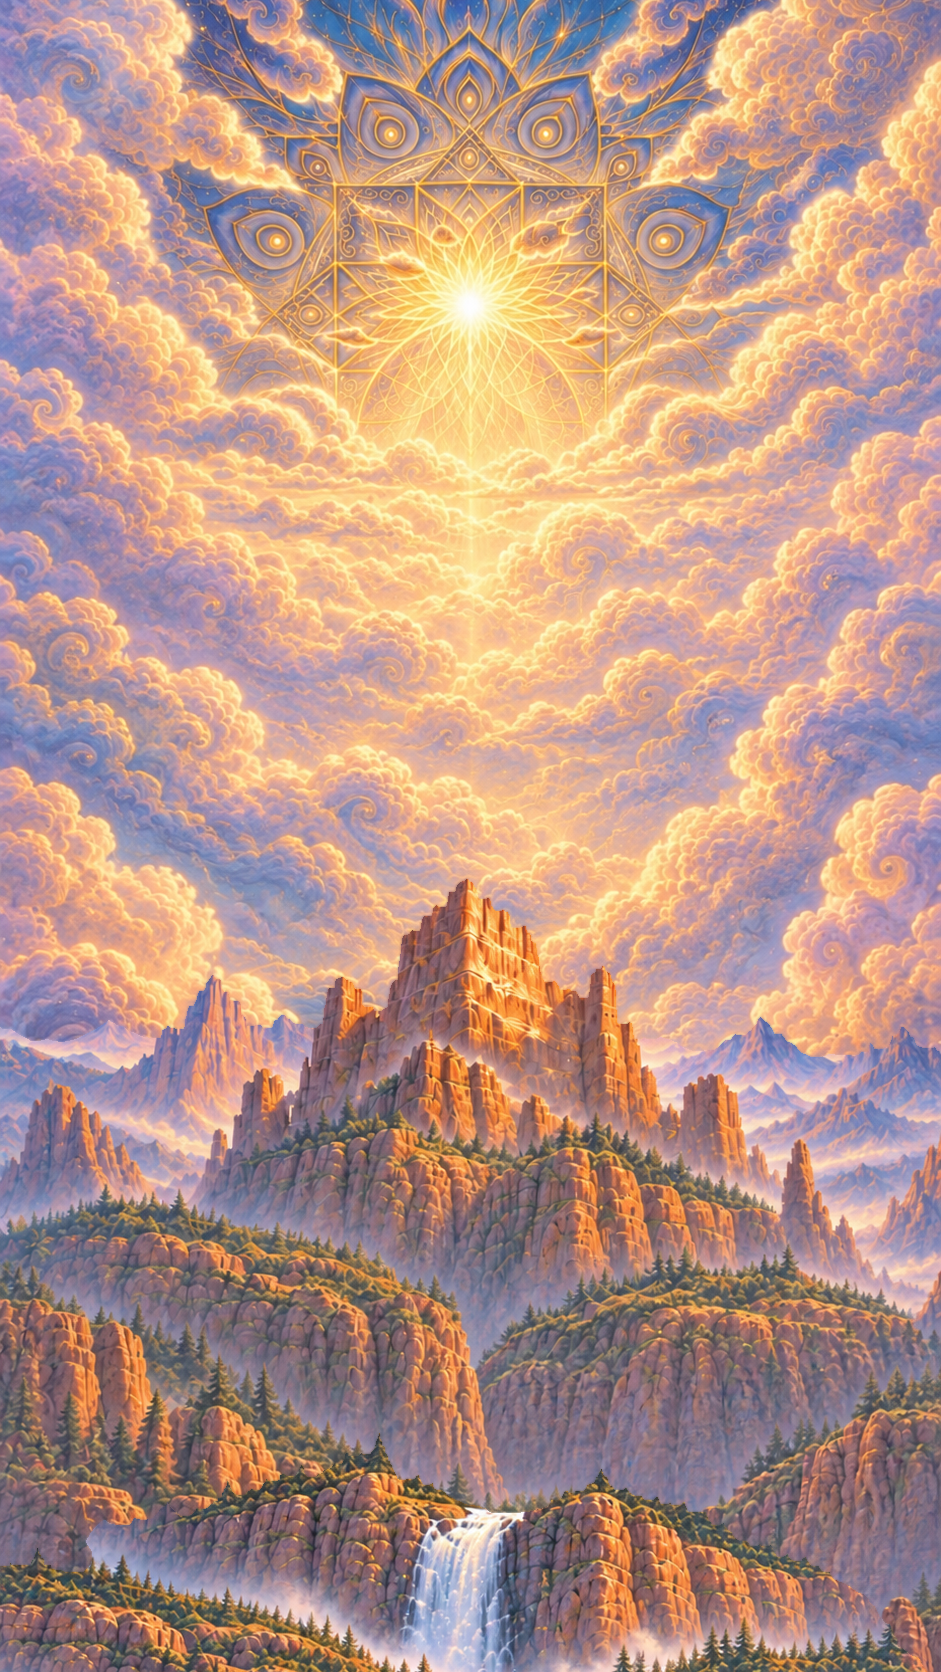
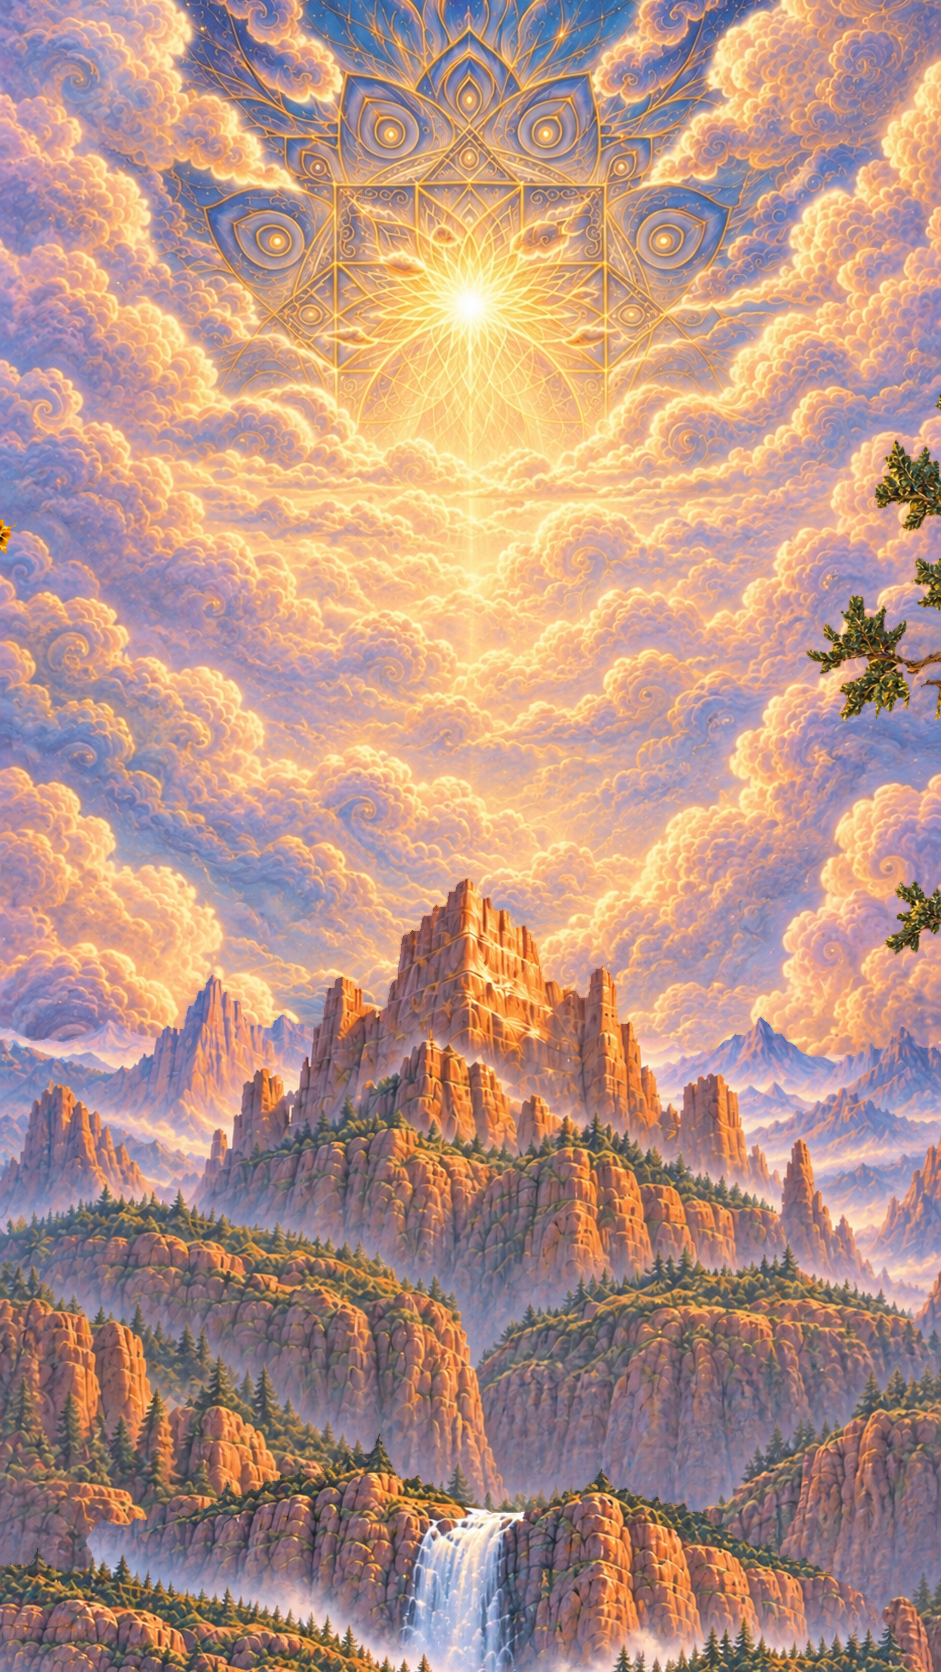
World v3 scroll: Burnell's choreography (236svh descent, trees peek in from landing, landing veil, parting clouds)
Clouds are placeholders (Burnell's) in the preview only.

Claude-Session: https://claude.ai/code/session_01X5u2D9a4RRbbCvwnE6RQKF

Changed region(s): [[0.8629, 0.2488, 1.0, 0.4354], [0.9245, 0.5287, 1.0, 0.5909], [0.0, 0.311, 0.0308, 0.3421]]

diff --git a/prototype/world-v3-preview/trev-world-scroll.html b/prototype/world-v3-preview/trev-world-scroll.html
@@ -3,11 +3,13 @@
   :root { --bg: #0b0c0f; --fg: #efe6d6; --gold: #f1cf97; color-scheme: dark; }
   html, body { background: var(--bg); color: var(--fg); margin: 0; }
   body { font-family: "Cinzel", Georgia, serif; }
-  #track { height: 560svh; }
+  #track { height: 336svh; } /* 100svh screen + 236svh descent, same as Burnell */
   #stage { position: fixed; inset: 0; overflow: hidden; background: var(--bg); }
   #side { position: absolute; inset: 0; background: center/cover no-repeat; filter: blur(28px) brightness(.55); transform: scale(1.1); display: none; }
   #world { position: absolute; left: 0; top: 0; width: 941px; height: 1672px; transform-origin: 0 0; }
-  #world img { position: absolute; left: 0; top: 0; max-width: none; will-change: transform; user-select: none; pointer-events: none; }
+  #world img, #clouds img { position: absolute; left: 0; top: 0; max-width: none; will-change: transform; user-select: none; pointer-events: none; }
+  #clouds { position: absolute; left: 0; top: 0; width: 941px; height: 1672px; transform-origin: 0 0; pointer-events: none; }
+  #shade { position: absolute; inset: 0; background: #08090b; opacity: 0; pointer-events: none; }
   #logo { position: absolute; left: 0; top: 0; max-width: none; pointer-events: none; filter: drop-shadow(0 2px 18px rgba(0,0,0,.45)); }
   #hint { position: absolute; left: 0; right: 0; bottom: calc(5svh + env(safe-area-inset-bottom, 0px)); text-align: center;
           font-size: 11px; letter-spacing: .42em; text-transform: uppercase; color: var(--fg); text-shadow: 0 1px 12px rgba(0,0,0,.6); }
@@ -19,6 +21,7 @@
 <div id="stage">
   <div id="side"></div>
   <div id="world"></div>
+  <div id="shade"></div>
   <img id="logo" src="trev-logo.webp" alt="TREV">
   <div id="hint">Scroll to enter</div>
   <div id="bar"></div>
@@ -32,22 +35,43 @@
 const CANVAS = { w: 941, h: 1672 };
 const SUN = { x: 471, y: 301 };
 const LOGO = { aspect: 1280 / 667, ax: 0.5015, ay: 0.4418 };
+// Same choreography as Burnell's world (WorldHome.jsx): descent over 236svh of scroll, eased toward
+// the finger at 5/s, nearer layers starting later and travelling further, the side trees already
+// peeking in at the landing and closing in over the whole descent, the landing blurred + dimmed
+// and clearing over the first 30%, and clouds that part to the sides as you go down.
+const DESCENT_SVH = 236, SCROLL_EASE = 5, PART_RANGE = 0.9;
 const LAYERS = [
   { key: "sky",        w: 941,   x: 0,     y: -150,  from: [0, 0],     span: [0, 1] },
   { key: "mountains",  w: 941,   x: 0,     y: 5,     from: [0, 520],   span: [0, 1] },
   { key: "falls",      w: 941,   x: 0,     y: 160,   from: [0, 900],   span: [0, 1] },
   { key: "forest",     w: 941,   x: 0,     y: 105,   from: [0, 1150],  span: [0.05, 1] },
-  { key: "river",      w: 941,   x: 0,     y: 425,   from: [0, 1350],  span: [0.1, 1] },
-  { key: "bison",      w: 127,   x: 406.9, y: 900.8, from: [0, 1350],  span: [0.1, 1] },
-  { key: "foreground", w: 941,   x: 0,     y: 200,   from: [0, 1500],  span: [0.25, 1] },
-  { key: "aspens",     w: 941,   x: -80,   y: 0,     from: [-420, 0],  span: [0, 1] },
-  { key: "juniper",    w: 799.9, x: 210,   y: 251,   from: [470, 0],   span: [0, 1] },
+  { key: "river",      w: 941,   x: 0,     y: 425,   from: [0, 1400],  span: [0.1, 1] },
+  { key: "bison",      w: 127,   x: 406.9, y: 900.8, from: [0, 1400],  span: [0.1, 1] },
+  { key: "foreground", w: 941,   x: 0,     y: 200,   from: [0, 900],   span: [0.25, 1] },
+  { key: "aspens",     w: 941,   x: -80,   y: 0,     from: [-190, 0],  span: [0, 1] },
+  { key: "juniper",    w: 799.9, x: 210,   y: 251,   from: [190, 0],   span: [0, 1] },
+];
+// Parting clouds (placeholders: Burnell's cloud art until TREV's are made). x0,y0 = landing spot
+// in the canvas; they part to `dir` and rise, nearer ones bigger and faster. `after` = drawn in
+// front of that layer.
+const CLOUDS = [
+  { src: "burnell-world-cloud-small.webp",  after: "mountains",  depth: 0.35, w: 300, x0: 400, y0: 470,  dir: -1, op: 0.85 },
+  { src: "burnell-world-cloud-medium.webp", after: "mountains",  depth: 0.35, w: 320, x0: 580, y0: 560,  dir: 1,  op: 0.85 },
+  { src: "burnell-world-cloud-large.webp",  after: "falls",      depth: 0.65, w: 470, x0: 320, y0: 680,  dir: -1, op: 0.9 },
+  { src: "burnell-world-cloud-small.webp",  after: "falls",      depth: 0.65, w: 400, x0: 660, y0: 790,  dir: 1,  op: 0.9 },
+  { src: "burnell-world-cloud-medium.webp", after: "foreground", depth: 1,    w: 640, x0: 340, y0: 930,  dir: -1, op: 0.95 },
+  { src: "burnell-world-cloud-large.webp",  after: "foreground", depth: 1,    w: 680, x0: 620, y0: 1120, dir: 1,  op: 0.95 },
 ];
 const world = document.getElementById("world");
 for (const L of LAYERS) {
   const el = document.createElement("img");
   el.src = `w3-${L.key}.webp`; el.alt = ""; el.decoding = "async"; el.style.width = L.w + "px";
   world.appendChild(el); L.el = el;
+  for (const c of CLOUDS) if (c.after === L.key) {
+    const ce = document.createElement("img");
+    ce.src = c.src; ce.alt = ""; ce.style.width = c.w + "px"; ce.style.opacity = c.op;
+    world.appendChild(ce); c.el = ce;
+  }
 }
 document.getElementById("side").style.backgroundImage = "url(w3-sky.webp)";
 const ease = (t) => { t = Math.min(1, Math.max(0, t)); return t * t * (3 - 2 * t); };
@@ -70,27 +94,38 @@ function layout(p) {
     const t = 1 - ease((p - L.span[0]) / (L.span[1] - L.span[0]));
     L.el.style.transform = `translate3d(${(L.x + L.from[0] * t).toFixed(1)}px, ${(L.y + L.from[1] * t).toFixed(1)}px, 0)`;
   }
+  // parting clouds (centred on x0,y0)
+  const e = ease(p / PART_RANGE), now = performance.now() / 1000;
+  CLOUDS.forEach((c, i) => {
+    const x = c.x0 - c.w / 2 + c.dir * (300 + 650 * c.depth) * e + 8 * Math.sin(now * 0.3 + i);
+    const y = c.y0 - c.w * 0.22 - p * (250 + 650 * c.depth);
+    c.el.style.transform = `translate3d(${x.toFixed(1)}px, ${y.toFixed(1)}px, 0)`;
+  });
+  // landing: blurred + dimmed, clearing over the first 30% of the descent
+  const veil = 1 - ease(p / 0.3);
+  world.style.filter = veil > 0.02 ? `blur(${(6 * veil).toFixed(1)}px)` : "none";
+  document.getElementById("shade").style.opacity = (0.5 * veil).toFixed(3);
   const logo = document.getElementById("logo");
   const lw = narrow ? colW * 0.82 : Math.min(600, Math.max(265, colW * 0.62));
   logo.style.width = lw + "px";
   logo.style.transform = `translate(${(ox + SUN.x * k - lw * LOGO.ax).toFixed(1)}px, ${(oy + SUN.y * k - (lw / LOGO.aspect) * LOGO.ay).toFixed(1)}px)`;
-  const lo = 1 - ease(p / 0.14);
+  const lo = 1 - Math.min(1, window.scrollY / (VH * 0.12)); // copy dissolves on the first bit of scroll
+  logo.style.filter = `drop-shadow(0 2px 18px rgba(0,0,0,.45)) blur(${((1 - lo) * 8).toFixed(1)}px)`;
   logo.style.opacity = lo.toFixed(3);
   document.getElementById("hint").style.opacity = lo.toFixed(3);
   document.getElementById("bar").style.width = (p * 100).toFixed(1) + "%";
 }
 let target = 0, cur = 0, raf = 0, last = performance.now();
-const progress = () => Math.max(0, Math.min(1, window.scrollY / Math.max(1, document.documentElement.scrollHeight - window.innerHeight)));
+const progress = () => Math.max(0, Math.min(1, window.scrollY / Math.max(1, (VH || innerHeight) * DESCENT_SVH / 100)));
 function frame(now) {
-  raf = 0;
   const dt = Math.min(0.05, (now - last) / 1000); last = now;
   target = progress();
-  cur += (target - cur) * (1 - Math.exp(-dt * 5));
+  cur += (target - cur) * (1 - Math.exp(-dt * SCROLL_EASE));
   if (Math.abs(target - cur) < 0.0003) cur = target;
   layout(cur);
-  if (cur !== target) raf = requestAnimationFrame(frame);
+  raf = requestAnimationFrame(frame); // keep running: the clouds sway
 }
-addEventListener("scroll", () => { if (!raf) { last = performance.now(); raf = requestAnimationFrame(frame); } }, { passive: true });
+raf = requestAnimationFrame(frame);
 addEventListener("resize", () => layout(cur));
 layout(0);
 </script>
